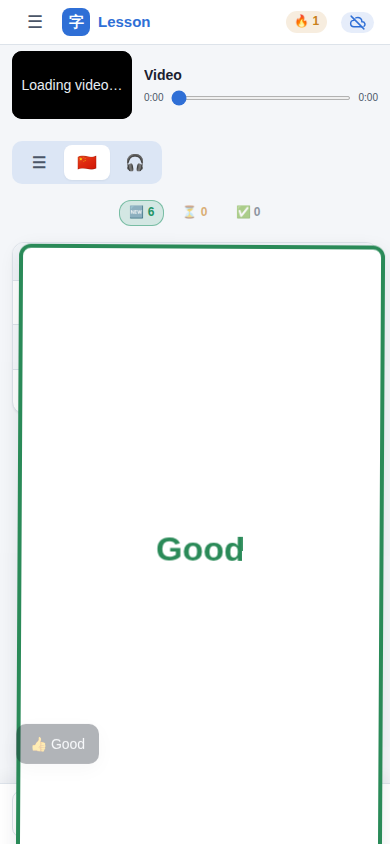
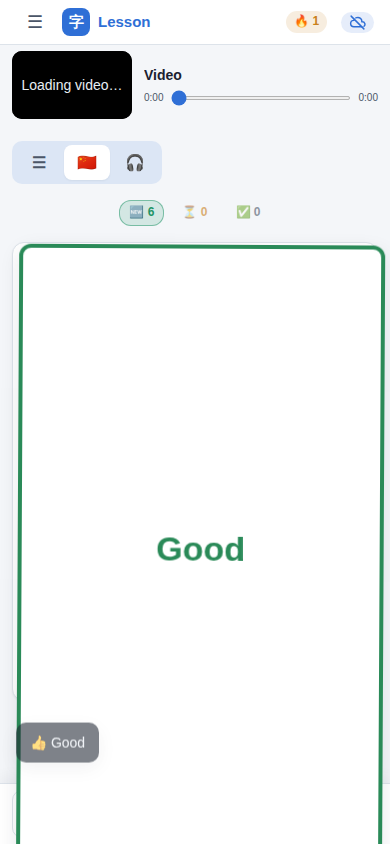
Group as a chat, Listening line swipes, plain equal-size Listening text
- Group (Lessons and Vocabulary) shows the three cards as chat bubbles:
  question on the left, answer in green on the right, hidden sides as
  bouncing typing dots; the playing or picked line is lit up
- Listening: swiping one line or its dictionary panel grades that card
- Listening question and answer share one size and plain weight

Claude-Session: https://claude.ai/code/session_014V8q72mFTe1AjYmi4UdURH

diff --git a/index.html b/index.html
@@ -486,7 +486,6 @@ window.onYouTubeIframeAPIReady = function(){
     .shell .listen-batch .listen-pair + .listen-pair::before{left:70px;right:10px;}
     .shell .listen-batch .listen-pair .cell{padding:0;}
     .shell .listen-batch .listen-pair .single-card-q .cell > .loop-time:first-child{left:10px;width:50px;height:50px;}
-    .shell .listen-batch .listen-pair .single-card-a .cell{font-size:15px;}
   }
   html.touch input[type=text], html.touch input[type=search], html.touch input[type=email], html.touch input[type=password], html.touch textarea, html.touch select{font-size:16px;}
   html.touch .segmented button{min-width:46px;padding:8px 12px;}
@@ -678,6 +677,34 @@ window.onYouTubeIframeAPIReady = function(){
     #cardTable.notebook tbody tr{grid-template-columns:40px minmax(0, 1fr);padding-right:14px;}
     #cardTable.notebook td.q-col, #cardTable.notebook td.a-col{padding-left:15px;}
     #cardTable.notebook tbody tr.edit-row{padding:12px 12px 12px 52px;}
+  }
+  :is(#cardTable, #vocabTable).chat{display:block;padding:20px;overflow:visible;}
+  :is(#cardTable, #vocabTable).chat :is(colgroup, thead){display:none;}
+  :is(#cardTable, #vocabTable).chat tbody{display:flex;flex-direction:column;gap:10px;}
+  :is(#cardTable, #vocabTable).chat tbody tr{display:flex;flex-direction:column;gap:10px;padding:10px;border-radius:var(--radius);background:none;transition:background .15s ease;}
+  :is(#cardTable, #vocabTable).chat tbody tr.row-playing{background:var(--row-playing) !important;}
+  html.touch :is(#cardTable, #vocabTable).chat tbody tr.row-selected{background:var(--row-playing);}
+  html.touch :is(#cardTable, #vocabTable).chat tbody tr.row-selected > td:first-child{box-shadow:none;}
+  :is(#cardTable, #vocabTable).chat tbody td{display:flex;border:0;padding:0;overflow:visible;}
+  :is(#cardTable, #vocabTable).chat tbody td.a-col{justify-content:flex-end;}
+  :is(#cardTable, #vocabTable).chat tbody tr.edit-row{display:block;padding:0;}
+  :is(#cardTable, #vocabTable).chat tbody tr.edit-row td{display:block;}
+  :is(#cardTable, #vocabTable).chat .cell{display:block;max-width:80%;margin:0;padding:10px 15px;font-size:20px;line-height:1.5;border-radius:20px 20px 20px 5px;background:var(--q-bg);}
+  :is(#cardTable, #vocabTable).chat .a-col .cell{border-radius:20px 20px 5px 20px;background:var(--a-bg);}
+  :is(#cardTable, #vocabTable).chat .a-col .cell.shown{color:var(--a-text);}
+  @media (hover:hover){
+    :is(#cardTable, #vocabTable).chat .cell.shown:hover{background:var(--q-bg);box-shadow:0 0 0 2px var(--accent-soft);}
+    :is(#cardTable, #vocabTable).chat .a-col .cell.shown:hover{background:var(--a-bg);}
+  }
+  :is(#cardTable, #vocabTable).chat .cell.hidden{font-size:0;line-height:0;font-style:normal;}
+  :is(#cardTable, #vocabTable).chat .cell.hidden::after{content:"";display:block;width:40px;height:15px;margin:5px 0;opacity:.6;--dot:radial-gradient(circle closest-side, var(--text-2) 90%, transparent);background:var(--dot) 0 5px / 10px 10px no-repeat, var(--dot) 15px 5px / 10px 10px no-repeat, var(--dot) 30px 5px / 10px 10px no-repeat;animation:chat-typing 1.2s ease-in-out infinite;}
+  :is(#cardTable, #vocabTable).chat .cell.hidden > .loop-time{display:block;width:fit-content;margin:0 0 5px;line-height:1.5;}
+  @keyframes chat-typing{0%, 80%, 100%{background-position:0 5px, 15px 5px, 30px 5px;}20%{background-position:0 0, 15px 5px, 30px 5px;}40%{background-position:0 5px, 15px 0, 30px 5px;}60%{background-position:0 5px, 15px 5px, 30px 0;}}
+  @media (prefers-reduced-motion: reduce){:is(#cardTable, #vocabTable).chat .cell.hidden::after{animation:none;}}
+  @media (max-width:600px){
+    .shell :is(#cardTable, #vocabTable).chat{padding:10px;}
+    .shell :is(#cardTable, #vocabTable).chat tbody tr{padding:5px;}
+    .shell :is(#cardTable, #vocabTable).chat .cell{max-width:85%;margin:0;padding:10px 15px;font-size:18px;}
   }
 
   .rich-editor{
@@ -873,15 +900,13 @@ window.onYouTubeIframeAPIReady = function(){
   .listen-pair.row-playing::before, .listen-pair.row-playing + .listen-pair::before{display:none;}
   .listen-batch .listen-pair .single-card-field{position:static;min-height:0;padding:0;background:none;border-radius:0;align-items:flex-start;}
   .listen-batch .listen-pair .cell{padding:0;text-align:left;}
-  .listen-batch .listen-pair .single-card-q .cell.shown{font-weight:600;}
-  .listen-batch .listen-pair .single-card-a .cell{font-size:20px;}
   .listen-batch .listen-pair .single-card-q .cell > .loop-time:first-child{position:absolute;left:20px;top:50%;transform:translateY(-50%);display:flex;align-items:center;justify-content:center;width:50px;height:50px;margin:0;padding:0;border-radius:50%;font-size:12px;font-weight:600;}
   .listen-batch .listen-pair .loop-time.looping{animation:listen-pulse 1.2s ease-out infinite;}
   @keyframes listen-pulse{from{box-shadow:0 0 0 0 color-mix(in srgb, var(--accent) 45%, transparent);}to{box-shadow:0 0 0 10px color-mix(in srgb, var(--accent) 0%, transparent);}}
   .listen-batch .listen-pair .cell.hidden{font-size:0;line-height:0;}
   .listen-batch .listen-pair .cell.hidden::after{content:"";display:block;max-width:100%;border-radius:10px;background:linear-gradient(90deg, var(--surface-3) 0%, var(--surface-2) 50%, var(--surface-3) 100%) 0 0 / 200% 100%;animation:listen-shimmer 1.6s linear infinite;}
   .listen-batch .listen-pair .single-card-q .cell.hidden::after{width:max(60px, var(--qw));height:20px;margin:5px 0;}
-  .listen-batch .listen-pair .single-card-a .cell.hidden::after{width:max(40px, var(--aw));height:15px;margin:5px 0;opacity:.7;}
+  .listen-batch .listen-pair .single-card-a .cell.hidden::after{width:max(60px, var(--aw));height:20px;margin:5px 0;opacity:.7;}
   @keyframes listen-shimmer{to{background-position:-200% 0;}}
   @media (prefers-reduced-motion: reduce){.listen-batch .listen-pair .loop-time.looping, .listen-batch .listen-pair .cell.hidden::after{animation:none;}}
   .single-card-q{background:var(--q-bg);}
@@ -2727,7 +2752,7 @@ function maskWidth(text, wide, narrow) {
 }
 
 function listenPairsHtml(batch) {
-  return batch.map(r => `<div class="listen-pair" data-id="${r.id}" style="--qw:${maskWidth(r.q, 24, 12)}px;--aw:${maskWidth(r.a, 20, 10)}px">${singleCardFieldsHtml(r)}</div>`).join("");
+  return batch.map(r => `<div class="listen-pair" data-id="${r.id}" style="--qw:${maskWidth(r.q, 24, 12)}px;--aw:${maskWidth(r.a, 24, 12)}px">${singleCardFieldsHtml(r)}</div>`).join("");
 }
 
 function currentBadgeIds() {
@@ -5832,6 +5857,7 @@ function applyColumnLayout() {
   const inTable = !!groupState && groupViewStyle === "table";
   const noAnswer = !inTable && !deckHasAnswers();
   table.classList.toggle("notebook", !groupState && !isVideoLesson());
+  table.classList.toggle("chat", inTable);
   const listAdd = document.getElementById("listAddCard");
   listAdd.hidden = !!groupState || isVirtualLesson() || !rows.length;
   listAdd.textContent = rows.length + " ＋";
@@ -6304,7 +6330,7 @@ function wholePx(n, up) {
 }
 
 function ghostFor(parts) {
-  const row = parts.length === 1 && parts[0] && parts[0].tagName === "TR" || parts.length > 0 && parts.every(el => el && el.parentElement && el.parentElement.classList.contains("vocab-list-row"));
+  const row = parts.length === 1 && parts[0] && (parts[0].tagName === "TR" || parts[0].classList.contains("listen-pair")) || parts.length > 0 && parts.every(el => el && el.parentElement && el.parentElement.classList.contains("vocab-list-row"));
   const shown = parts.filter(el => el && el.offsetParent && el.getBoundingClientRect().height > 1).map(el => el.id === "cardTable" || el.id === "singleCardView" ? contentShape(el) : el);
   const rects = shown.map(el => el.getBoundingClientRect());
   if (!rects.length) return null;
@@ -6320,7 +6346,7 @@ function ghostFor(parts) {
     width: Math.round(Math.max(...rects.map(r => r.right))) - left + "px",
     height: bottom - top + "px"
   });
-  if (!row) ghost.style.borderRadius = getComputedStyle(shape).borderTopLeftRadius;
+  if (!row || shape.classList.contains("listen-pair")) ghost.style.borderRadius = getComputedStyle(shape).borderTopLeftRadius;
   if (!row) ghost.style.paddingTop = Math.round((Math.max(top, 0) + Math.min(bottom, window.innerHeight)) / 2 - top - 25) + "px";
   document.body.appendChild(ghost);
   return ghost;
@@ -6374,8 +6400,9 @@ document.addEventListener("pointerdown", e => {
   if (!groupState || currentView !== "study" || activeEdit) return;
   if (!e.target.closest("#viewStudy") || e.target.closest("button, input, select, textarea, [contenteditable], .loop-time")) return;
   if (document.getElementById("sessionCompletePanel").style.display === "block") return;
-  const panel = groupViewStyle === "table" ? e.target.closest("#dictPanels > .stroke-order-panel") : null;
-  const row = groupViewStyle === "table" ? panel ? document.querySelector(`#tbody tr[data-id="${panel.dataset.rowId}"]`) : e.target.closest("#tbody tr[data-id]") : null;
+  const lines = groupViewStyle === "table" ? "#tbody tr" : isListenMode() && listenBatch().length > 1 ? "#singleCardBody .listen-pair" : null;
+  const panel = lines ? e.target.closest("#dictPanels > .stroke-order-panel") : null;
+  const row = lines ? panel ? document.querySelector(`${lines}[data-id="${panel.dataset.rowId}"]`) : e.target.closest(`${lines}[data-id]`) : null;
   drag = {
     id: e.pointerId,
     row: row,
@@ -6493,7 +6520,7 @@ function showNextUnderSwipe(row) {
     el.style.visibility = "hidden";
   };
   const ids = groupState.groups[groupState.index] || [];
-  if (row && ids.length > 1) {
+  if (row && (groupViewStyle === "table" ? ids.length : listenBatch().length) > 1) {
     const panel = rowDictPanel(row.dataset.id);
     row.style.display = "none";
     if (panel) panel.style.display = "none";
@@ -10805,7 +10832,7 @@ function vocabTableHtml(group) {
     return `<div class="cell ${hidden ? "hidden" : "shown"}" data-field="${field}">${play}${hidden ? "···" : escapeHtml(field === "q" ? item.term : item.meaning)}</div>`;
   };
   const head = field => `<th${field === "a" ? ' class="a-col"' : ""}>${field === "q" ? "Question" : "Answer"}</th>`;
-  return '<table id="vocabTable"><colgroup><col><col></colgroup><thead><tr>' + head("q") + head("a") + "</tr></thead><tbody>" + group.map(item => item.key === vocabEditingKey && !vocabEditingInList ? `<tr class="edit-row"><td colspan="2">${vocabEditorHtml(item)}</td></tr>` : `<tr data-key="${escapeAttr(item.key)}"${item.key === vocabSelectedKey ? ' class="row-selected"' : ""}><td>${cell(item, "q")}</td><td class="a-col">${cell(item, "a")}</td></tr>`).join("") + "</tbody></table>";
+  return '<table id="vocabTable" class="chat"><colgroup><col><col></colgroup><thead><tr>' + head("q") + head("a") + "</tr></thead><tbody>" + group.map(item => item.key === vocabEditingKey && !vocabEditingInList ? `<tr class="edit-row"><td colspan="2">${vocabEditorHtml(item)}</td></tr>` : `<tr data-key="${escapeAttr(item.key)}"${item.key === vocabSelectedKey ? ' class="row-selected"' : ""}><td>${cell(item, "q")}</td><td class="a-col">${cell(item, "a")}</td></tr>`).join("") + "</tbody></table>";
 }
 
 function wordNotesOf(item) {

diff --git a/README.md b/README.md
@@ -18,8 +18,8 @@ The whole app is one file, `index.html`. There is no build step and nothing to i
 | Mode | What it does |
 | --- | --- |
 | ☰ Full | The whole lesson as a list, for browsing and editing. No spaced repetition. A ＋ bar under the mode buttons (once the lesson has cards; a new, empty lesson shows the add form with its own ＋, and a lesson whose last card is moved or deleted opens Add cards, with the lesson picked, as Vocabulary opens Add vocabularies when its last word goes), in the logo's colour, shows how many cards the lesson has in front of the ＋ (such as 97 ＋) and adds a card at the top of the list (the same as the count and ＋ on the Vocabulary word list, at the same height). In a text lesson, clicking a card (its question or its answer) copies the whole card, question and answer together, in one click, and pointing at either part shades both. In a text lesson the list is a notebook page: white ruled paper with a red margin (on a phone there is no margin line, and the text sits a little further in from both edges), each question as a heading in the lesson colour with its answer written on the lines below, and the editor puts the short question on one line above a large answer box, without a dictionary. No table has a column of ✎, ✕ or 字 buttons, on a computer or a phone, in Lessons or in Vocabulary: point at a card (or select it on a phone) and press E to edit it, Delete to delete it or, in a text lesson, V to move it to Vocabulary, flying off as the logo (on a phone the bar of copy, ✎, ✕ and 字 described below does the same): the question becomes a word, the answer its meaning, and words filed under the card go along; if the sentence is already a word, the card just leaves the lesson. Undo brings it back. In every editor a coloured line starts each box: blue for the question, green for the answer, grey for the notes, and the answer box fits its text. |
-| Group | Due cards three at a time (the last two groups of a session are balanced, so 4 left become 2 + 2), each group listed in video-time order (0:05, 0:10, 0:15), so its clips play like a stretch of the video. Shown in video lessons. Once a card's answer is shown, its dictionary panel also shows the card's notes under the meaning, in the same size as the notes on a flashcard. Click the notes (tap them on a phone) to edit them right there, like the answer (also tapped on a phone): Return saves, Shift + Return starts a new line, Esc cancels, and undo brings the old notes back. The table of three works the sound as before (▶ plays the group, 1 – 3 loops one row). Under it each sentence has its own dictionary panel, and working in a panel (clicking or selecting in it, clicking its stroke order or its dictionary, editing it) means you are on that one sentence: the sound switches by itself to playing just that sentence over and over, like pressing its number. Since everything in a panel reacts to a click, pointing at its sentence, meaning or notes shows a hand, as everywhere in the app that a click does something; the text cursor appears only inside a box you are typing in. This works every time, not just once: after pressing 1 – 3, Space or ▶ for something else, going back to work in a panel loops that panel's sentence again, and moving to another panel switches to that sentence. The one exception: if you stop the sound altogether (Space, ▶, the sentence's number or its badge in the panel) while working in a panel, it stays quiet as you keep working in that same panel; moving to another panel, or clicking in the table and coming back, plays again. For that case the sentence in each panel starts with the same badge as its row in the table: the video time (1:09), or 🔊 for a card without video. Clicking it loops that sentence, or stops it when it is the one looping, and it lights up while the sentence plays. In the table too, a card without video has 🔊 in front of its question, as in Vocabulary's Group, to read it aloud over and over (click again to stop). |
-| Listening | Cards come in groups, by the same rule as Group (three at a time, the last two balanced, each group in video-time order), all in one card frame laid out like a track list: each card is a line with a round time button on the left (0:05; tap it to play that clip; it fills with the lesson colour and pulses while it plays, and its line is lit up), its question in bold and its answer in green under it on the right, the lines divided by thin rules. Before they are shown, the question and the answer are grey bars about as long as the hidden text, with a soft shimmer, so you can tell how much you are listening for. The clips play first, in turn; Space shows all three; each card gets its dictionary panel underneath, the same panel as in Group (the card's time and question, its answer and notes, the stroke order and the dictionary); grading grades all three (or just the card you point at, which then flies off on its own), Delete deletes all three (or the card you point at), E edits the card you point at, and the copy button copies all three. The three stay together until each is graded; a session's last card can come on its own. Shown when the lesson has video cards. |
+| Group | Due cards three at a time (the last two groups of a session are balanced, so 4 left become 2 + 2), each group listed in video-time order (0:05, 0:10, 0:15), so its clips play like a stretch of the video. Shown in video lessons. The three are laid out as a chat, not a table: each card's question is a speech bubble on the left (with its time badge) and its answer a green bubble answering it on the right; a side that is not shown yet is a bubble with three bouncing dots, as when someone is typing. The line of the card that is playing (or picked on a phone) is lit up behind its two bubbles. Once a card's answer is shown, its dictionary panel also shows the card's notes under the meaning, in the same size as the notes on a flashcard. Click the notes (tap them on a phone) to edit them right there, like the answer (also tapped on a phone): Return saves, Shift + Return starts a new line, Esc cancels, and undo brings the old notes back. The table of three works the sound as before (▶ plays the group, 1 – 3 loops one row). Under it each sentence has its own dictionary panel, and working in a panel (clicking or selecting in it, clicking its stroke order or its dictionary, editing it) means you are on that one sentence: the sound switches by itself to playing just that sentence over and over, like pressing its number. Since everything in a panel reacts to a click, pointing at its sentence, meaning or notes shows a hand, as everywhere in the app that a click does something; the text cursor appears only inside a box you are typing in. This works every time, not just once: after pressing 1 – 3, Space or ▶ for something else, going back to work in a panel loops that panel's sentence again, and moving to another panel switches to that sentence. The one exception: if you stop the sound altogether (Space, ▶, the sentence's number or its badge in the panel) while working in a panel, it stays quiet as you keep working in that same panel; moving to another panel, or clicking in the table and coming back, plays again. For that case the sentence in each panel starts with the same badge as its row in the table: the video time (1:09), or 🔊 for a card without video. Clicking it loops that sentence, or stops it when it is the one looping, and it lights up while the sentence plays. In the table too, a card without video has 🔊 in front of its question, as in Vocabulary's Group, to read it aloud over and over (click again to stop). |
+| Listening | Cards come in groups, by the same rule as Group (three at a time, the last two balanced, each group in video-time order), all in one card frame laid out like a track list: each card is a line with a round time button on the left (0:05; tap it to play that clip; it fills with the lesson colour and pulses while it plays, and its line is lit up), its question and, under it, its answer in green on the right, both in the same size and plain (not bold) type, the lines divided by thin rules. Before they are shown, the question and the answer are grey bars about as long as the hidden text, with a soft shimmer, so you can tell how much you are listening for. The clips play first, in turn; Space shows all three; each card gets its dictionary panel underneath, the same panel as in Group (the card's time and question, its answer and notes, the stroke order and the dictionary); grading grades all three (or just the card you point at, which then flies off on its own), Delete deletes all three (or the card you point at), E edits the card you point at, and the copy button copies all three. The three stay together until each is graded; a session's last card can come on its own. Shown when the lesson has video cards. |
 | 🗒 Speaking | Laid out as an exam paper, one question at a time, for speaking practice of any kind: a white ruled sheet headed with the lesson's name, Question 2 of 5 and a clock that runs while you answer out loud; the heading stays in the same place when the answer is shown, so nothing jumps. The question is numbered, in the lesson colour; the ruled lines below it show ···, and the answer comes in two steps, the same with a click (or tap) on the paper, Space, Return or the phone's button (which reads Hint, then Show): the first writes a hint on those lines, the meanings of the lesson's words in the answer, in the order they come, without the words themselves, in the paper's normal ink, numbered with the numbers lined up on the left (the same in Notes); the second writes the answer there. A question without notes skips the hint and shows the answer at once. The clock is not clickable. Before the answer is shown the hint is the only help. A text lesson (the kind studied with Speaking) shows no pinyin or reading when you point at (or tap) its questions and answers, anywhere: not on the Speaking paper and not in the ☰ Full notebook. The answer then comes on the left, with the lesson's words highlighted like a highlighter pen, and a numbered Notes list of those words and meanings on the right, divided from it by a red line; Notes takes only as much width as its lines need (up to a little under half the paper), so short notes leave the answer more room and long ones are not broken over two lines without need, and each note sits a little apart from the next (on a phone, Notes comes under the answer); the clock stops. As in Listening, once the answer is shown it stays until you grade: Space, a click on the paper and the phone's button (greyed out) do nothing more. ← or → grades, as everywhere. The paper takes the normal dark background in the dark theme. Everything the question does elsewhere, the answer does here: once the answer is shown, the foot of the paper, across its whole width under the answer and Notes, shows the stroke order of its characters and the dictionary for it (there is no separate panel; the paper's sections sit 32 px apart and its dictionary is 360 px tall, like the others, the dictionary moves with the page as you scroll, and the dictionaries of the current and next questions load while the question is still showing). Pointing at the answer keeps its ruled lines and shows a hand, since clicking it opens the card editor, as in Listening, and selecting part of the answer on the paper and pressing Shift adds it as a word. On a computer there are no buttons for the card: E edits it, Delete deletes it and V moves it to Vocabulary; on a phone copy, ✎, ✕ and 字 are in the bar above the bottom buttons. A card whose answer is a translation of its question (the two are in different languages) belongs in Vocabulary: when one comes up in Speaking, a box in the middle of the screen says so and offers Move card, Move all (when the lesson has more such cards; they all go at once) or Cancel (Enter moves, Esc cancels; other keys do nothing while it is open); it asks once per card. There is no sound button, and Space does nothing once the answer is shown. In a text lesson the card editor does the same with the answer box: it highlights the words, Shift adds a selected part as a word, and the dictionary under it translates the answer. Shown in lessons without a video; it uses the same spaced repetition as Group. |
 
 In a video lesson the video sits in a player bar as wide as the lesson, fully transparent, also while it is pinned over the cards: the video plays in the small picture on the left, beside its title and a progress bar you can drag with the time and length. Click the picture and the video grows out of it, with a genie effect, into a large player as wide as the lesson, shown in full in every mode (Listening covers only the small picture); the button in its corner shrinks it back into the bar. The bar stays pinned at the top as you scroll; the large player scrolls away with the page while the mode buttons stay pinned, and making it large (with the picture or Y) scrolls the page back up to it. ▶ and the speed beside the mode buttons work as before. The mode buttons have no tooltips.
@@ -77,7 +77,7 @@ A lesson is either a video lesson (it has a YouTube, TikTok or Douyin link, or c
 
 The same keys work in every study mode, in Lessons and in Vocabulary. In a Lesson group, pointing at a row, or at the dictionary panel under the table that belongs to it, makes the grading keys grade just that card.
 
-On a phone, swipe a card right for Good and left for Again. Whatever flies off (a row, a dictionary panel, a card, a whole group) is outlined exactly at its own edges, with its own rounded corners (a table row flies as a rounded strip). In a Lesson group, swiping one row or its dictionary panel grades just that card; swiping anywhere else grades the whole group. While you swipe, what comes next is already shown underneath, in the same form it will have: the next rows or the next group's table, the next Listening card, the next Speaking paper (its next question number and a fresh clock), the next flashcard, and in a Vocabulary group the next group's table.
+On a phone, swipe a card right for Good and left for Again. Whatever flies off (a row, a dictionary panel, a card, a whole group) is outlined exactly at its own edges, with its own rounded corners (a table row flies as a rounded strip). In a Lesson group, and in Listening while it holds more than one card, swiping one card's line (its two bubbles, or its line in the Listening list) or its dictionary panel grades just that card; swiping anywhere else grades the whole group. In a Vocabulary group, swiping a word's line grades that word, and swiping the frame around the lines grades the whole group. While you swipe, what comes next is already shown underneath, in the same form it will have: the next rows or the next group's table, the next Listening card, the next Speaking paper (its next question number and a fresh clock), the next flashcard, and in a Vocabulary group the next group's table.
 
 ## Vocabulary
 
@@ -86,14 +86,14 @@ Switch from **Lessons** to **Vocabulary** with the 字 button at the top. Words 
 | Mode | What it does |
 | --- | --- |
 | ☰ List | Every word of the lesson, for browsing and editing, without the New, Due and Done counts: the bar at the top shows the number of words and, with ＋, adds a word; point at a word (or tap it on a phone) to see its pinyin or reading, and press E to edit it or Delete to delete it. No grading. |
-| 📑 Group | Due words three at a time, each group in the order of their clips in the video, like Group mode in Lessons; shown once the lesson has more than 10 words. Click a word to edit it, tap a row (phone) or point at it (computer) to grade just that word, the YouTube or 🔊 button plays the group's words in turn, and the YouTube or 🔊 mark before each word plays just that word (and turns into ⏸ while it plays). |
+| 📑 Group | Due words three at a time, each group in the order of their clips in the video, like Group mode in Lessons and laid out the same way, as a chat: the word in a bubble on the left, its meaning in a green bubble on the right, a side not shown yet as three bouncing dots; shown once the lesson has more than 10 words. Click a word to edit it, tap a row (phone) or point at it (computer) to grade just that word, the YouTube or 🔊 button plays the group's words in turn, and the YouTube or 🔊 mark before each word plays just that word (and turns into ⏸ while it plays). |
 | 🗃 Flashcards | One word at a time; tap the card to flip it sideways (except on the stroke order, which you can tap to draw a character again). Front and back are the same size, and the card is only as tall as what is on it (the taller of the two sides, at least 200 px), so it does not leave a lot of empty space; it never grows past what the screen allows: once the toolbar is pinned at the top, at most down to 40 px above the bottom bars (or the bottom of the window), on a phone held upright as on a computer. It refits when the window or the card's content changes (always a whole, even number of pixels), and the page below it ends there too, so there is nothing to scroll down to. The card keeps that size when it turns, so nothing grows or jumps after the flip; if the back ever holds more than fits (very long notes), it scrolls inside the card, starting at the top each time. There is no dictionary on a flashcard: the back holds the sentence the word comes from with the word highlighted and its meaning, the word's notes, and the stroke order, centred on the card, with the same sizes, margins, gaps and highlight as a dictionary panel in Group. On a phone, copy, ✎ and ✕ for the word sit in the bar above the bottom buttons, never on the card; on a computer, E edits and Delete deletes the word. The next word's card is prepared out of sight underneath, so it is ready when it comes up. Turning the card back does not scroll the page to the top. |
 
 The mode buttons have no tooltips, and Vocabulary has no dictionary button. 🔊 reads the sentence that really holds the word (also a sentence inside a long answer), or the word itself when no sentence has it.
 
 Editing a word (E, ✎, or ＋ for a new one) opens the same three boxes as a card in Lessons, with the same coloured lines: Question (blue), Answer (green) and Notes (grey). Notes take anything you type or paste, formatting included, with no look-ups or highlighting; Return saves (Shift + Return for a new line) and undo works as usual. A word's notes show on the back of its flashcard, under the meaning, and stay with the word when it is renamed, reset, or moved over from a lesson.
 
-Group and Flashcards share one queue, and a word marked Again comes back after 10 minutes. The toolbar stays pinned to the top of the screen as you scroll, in both modes, as in Lessons. The 🌐 button picks the language; ⇄ picks which side is shown first and hides the other side again (the card gives a short squash, and the side it starts on is coloured as a question or an answer). Only tables carry the words Question and Answer, in their header row; the Listening card, the Speaking paper and the flashcards show no such labels, questions and answers being told apart by their colour. On a phone, Undo, Redo, Show, Again and Good sit in a bar fixed to the bottom of the screen, as in Lessons; on a computer the keys do the same.
+Group and Flashcards share one queue, and a word marked Again comes back after 10 minutes. The toolbar stays pinned to the top of the screen as you scroll, in both modes, as in Lessons. The 🌐 button picks the language; ⇄ picks which side is shown first and hides the other side again (the card gives a short squash, and the side it starts on is coloured as a question or an answer). Only the tables of ☰ Full and ☰ List carry the words Question and Answer, in their header row; the Group chat, the Listening card, the Speaking paper and the flashcards show no such labels, questions and answers being told apart by their colour. On a phone, Undo, Redo, Show, Again and Good sit in a bar fixed to the bottom of the screen, as in Lessons; on a computer the keys do the same.
 
 As in Lessons, pointing at a word (or tapping its row on a phone) shows its pinyin or reading.
 
